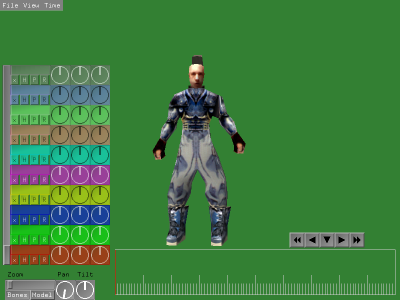
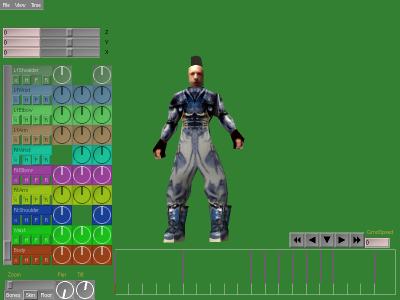
Added a *bunch* of improvements to ExPoser.

diff --git a/demos/exposer/doc/index.html b/demos/exposer/doc/index.html
@@ -158,19 +158,21 @@ So, that's more or less it.
 <H2>Controls.</H2>
 Having loaded your first model, you'll see something like this:
 <br>
-<IMG SRC="exposer.png">
+<center><IMG SRC="exposer.png"></center>
 <br>
 The rather nice shade of green is my favorite colour. If
 you prefer shock-pink...bad luck - that's what source code
 is for!  The 3D model sits in the middle of the screen with
 the GUI widgets floating in front of it.
 <p>
+There is an optional black and white chequerboard 'floor'.
+<p>
 Let's go through the GUI controls piece by piece:
 
 <H3>The Menu Bar.</H3>
 In the top-left, there is a pretty standard menu bar,
 <br>
-<IMG SRC="menu.png">
+<center><IMG SRC="menu.png"></center>
 <br>
 The 'File' menu allows you to replace the model you are
 working on with another, it also allows you to load
@@ -189,7 +191,7 @@ which we'll come to later.  The 'Time' menu has other
 To the left of the window are the bone dials - each coloured
 row of GUI widgets represents one of the bones in your model.
 <br>
-<IMG SRC="bone.png">
+<center><IMG SRC="bone.png"></center>
 <br>
 The button marked 'X' resets all of the angles of the bone
 to zero - which will always be how your model was posed when
@@ -217,7 +219,7 @@ Just below the meny bar, there are three sliders with
 text display/entry areas that allow you to bodily
 translate your model.
 <br>
-<IMG SRC="translate.png">
+<center><IMG SRC="translate.png"></center>
 <br>
 You should generally use this
 for things like adding 'bounce' to a character's walk
@@ -230,15 +232,15 @@ view controls.  These can be used anytime to change
 the view you have of the model - but they don't change
 any actual data in the model or it's bones.
 <br>
-<IMG SRC="viewer.png">
+<center><IMG SRC="viewer.png"></center>
 <br>
 You can also use the 'Zoom' slider to move the model
 closer or further away, and there are buttons marked
-'Skin' and 'Bones' that let you toggle the display of
+'Skin', 'Bones' and 'Floor' that let you toggle the display of
 each of those things - so you can see just the skin,
-just the bones or both. (Or neither if you are
-particularly perverse!).  The initial default is to
-show just the skin.
+just the bones or both (Or neither if you are
+particularly perverse!) - with or without the floor
+plane.  The initial default is to show just the skin.
 <p>
 The 'Pan' and 'Tilt' dials allow you to move your
 eyepoint around the model to view it from all sides
@@ -250,17 +252,28 @@ are some VCR-like controls to play the animation,
 pause it, play in reverse and to play at triple-speed
 in forward or reverse.
 <br>
-<IMG SRC="vcr.png">
+<center><IMG SRC="vcr.png"></center>
 <br>
 You cannot adjust any joint angles in the model when
 the animation is playing - so be sure to press the
 downward arrow (STOP!) when you want to do editing.
+<p>
+There is a control to make the ground translate
+along at a specified speed (in OpenGL-units-per-second).
+This is useful if (for example) you want to animate
+a running character that's you'll be moving at two
+meters per second in your game.  You need to move
+the legs so that the feet move along at the same
+speed as the ground or else it'll look like
+'moonwalking'.  Set the VCR's ground speed to match
+the speed in the game and you'll be able to see if
+the animation is going to work.
 
 <H3>The TimeLine</H3>
 This is a large rectangle taking up most of the bottom
 edge of the screen:
 <br>
-<IMG SRC="timeline.png">
+<center><IMG SRC="timeline.png"></center>
 <br>
 It has a number of functions, it starts up as a view
 of a 10 second animation.  Seconds are indicated by
@@ -282,7 +295,10 @@ change when they happen.
 <p>
 To change an event, click on it and it'll flash to
 indicate that you have it selected.  Then you can
-adjust it using the bone dials.
+adjust it using the bone dials.  A common problem
+is to try to edit a position without selecting it
+first - make sure that the event is flashing on
+the timeline.
 <p>
 Various operations on the 'selected' event are
 available from the 'Time' menu.
@@ -321,11 +337,20 @@ the parser for it is VERY crude at this stage.
 The first line of the file is:
 <pre>
 
-  NUMBONES=17 NUMEVENTS=7 MAXTIME=10.0000
+  NUMBONES=17 NUMEVENTS=7 MAXTIME=10.0000 Z_OFFSET=1.3 SPEED=0.3
 
 </pre>
-So there are 17 bones, 7 events - and the maximum
+So there are 17 bones, 7 events - and the
 duration of the animation is ten seconds.
+<p>
+The Z_OFFSET is advice to the application about the
+height of the origin of the model above the lowest
+point on the model in it's default pose.
+<p>
+SPEED is the speed set on the VCR 'Ground Speed'
+control - which the application can use to tell
+at what speed the character should move forwards
+in order to make the animation look right.
 <p>
 Then follows the bones - one per line:
 <pre>
@@ -342,13 +367,15 @@ After all the bones come the events.  For each event
 there is a header line:
 <pre>
 
-  EVENT 3.0000 17
+  EVENT 3.0000 17 (0.000,0.000,0.000)
 
 </pre>
 The first number is the time (in seconds) at which the
 event occurred, the second number is the number of bones
 that are affected by this event.  Currently this must be
-the same as 'NUMBONES'.
+the same as 'NUMBONES'. The coordinate in parentheses is
+the body-translation of the model from the origin at this
+moment in time. 
 <p>
 After the event header, there is one line per bone
 containing the three joint angles in degrees for
@@ -383,6 +410,9 @@ to the spine that's closer to the skin than the hand is.
 Artists should be encouraged to model the character in
 a position with their legs wide apart and their arms
 fully outstretched to minimise this kind of problem.
+<p>
+It is normal to model the character facing down the
+positive Y axis - facing away from the camera.
 <p>
 Using the axis freeze buttons to isolate only those
 axes through which a real joint can rotate is very

diff --git a/demos/exposer/src/bones.h b/demos/exposer/src/bones.h
@@ -60,6 +60,8 @@ void       transformModel  ( ssgRoot   *boneRoot, float tim ) ;
 void opaqueBones () ;
 void blendBones  () ;
 
+float getLowestVertexZ () ;
+
 void init_bones () ;
 
 int getNumBones () ;
